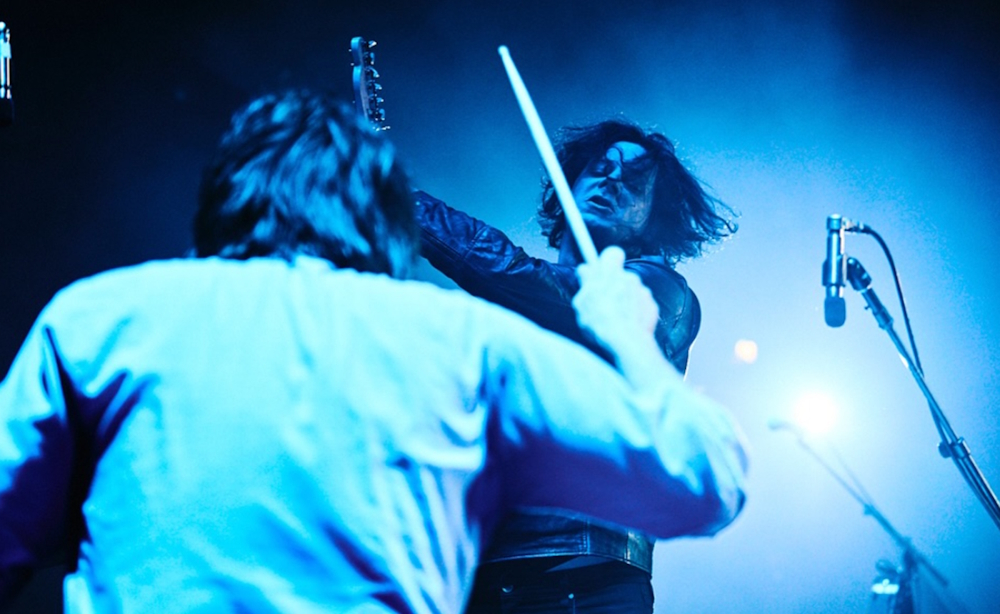
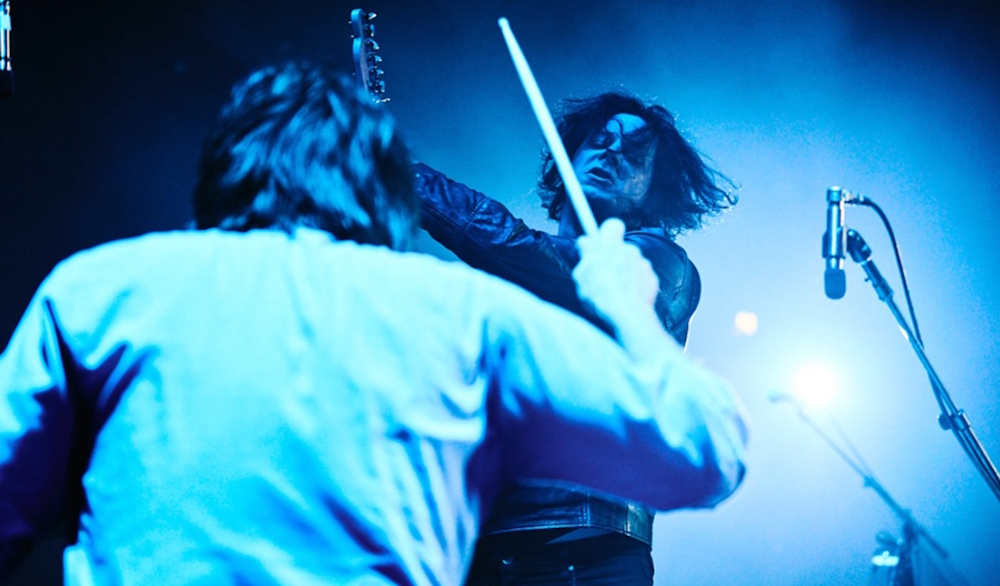
Add 3Olypmia Jack White show to top of concerts list

diff --git a/music-lists/top-5-concerts.html b/music-lists/top-5-concerts.html
@@ -41,7 +41,7 @@
         <div class="col-xxl-8 px-5 pt-5 pb-0 w-100 hero mb-3 artist-hero"> 
             <div class="row g-5 py-0 row align-items-center flex-lg-row-reverse"> 
                 <div class="col-10 col-sm-8 col-lg-6">
-                    <image src="/images/concerts/jack-white-troxy-crowd.png" class="d-block mx-lg-auto img-fluid fade-in-down" id="hero-img">
+                    <image src="/images/concerts/jack-white-troxy.png" class="d-block mx-lg-auto img-fluid fade-in-down" id="hero-img">
                 </div>
                 <div class="col-lg-6"> 
                     <h1 class="display-5 fw-bold mb-3">Top 5 Concerts</h1>
@@ -70,7 +70,8 @@
                 <div class="artist card mx-auto p-2">
                     <div class="col g-0">
                         <div>
-                            <img src="/images/concerts/jack-white-troxy.png" class="img-fluid rounded artist-image">
+                            <!-- <img src="/images/concerts/jack-white-troxy.png" class="img-fluid rounded artist-image"> -->
+                            <img src="/images/concerts/Jack_White_Dublin_072.jpg" class="img-fluid rounded artist-image">
                         </div>
                         <div>
                             <div class="card-body px-3">
@@ -81,6 +82,10 @@
                                         <div class="row">
                                             <p class="info-title mb-0">Venue</p>
                                             <p class="info-text fst-italic">
+                                                3Olympia, Dublin, Ireland
+                                                <br>
+                                                &
+                                                <br>
                                                 Troxy, London, England
                                             </p>
                                         </div>
@@ -89,7 +94,8 @@
                                     <div class="col">
                                         <div class="row">
                                             <p class="info-title mb-0">Date</p>
-                                            <p class="info-text fst-italic">28th February 2025</p> 
+                                            <p class="info-text fst-italic">2nd September 2026 (3Olympia)</p> 
+                                            <p class="info-text fst-italic">28th February 2025 (Troxy)</p> 
                                         </div>
                                     </div>
                                 </div>
